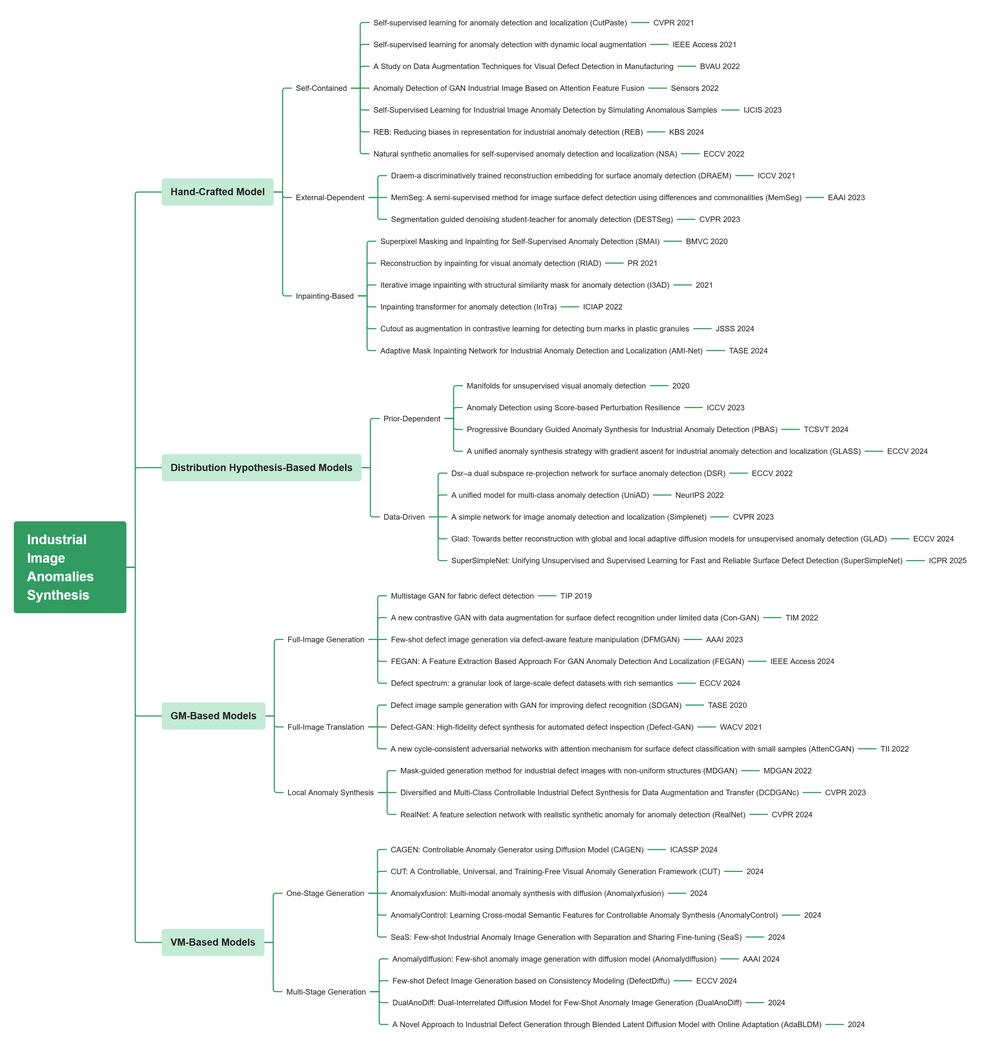
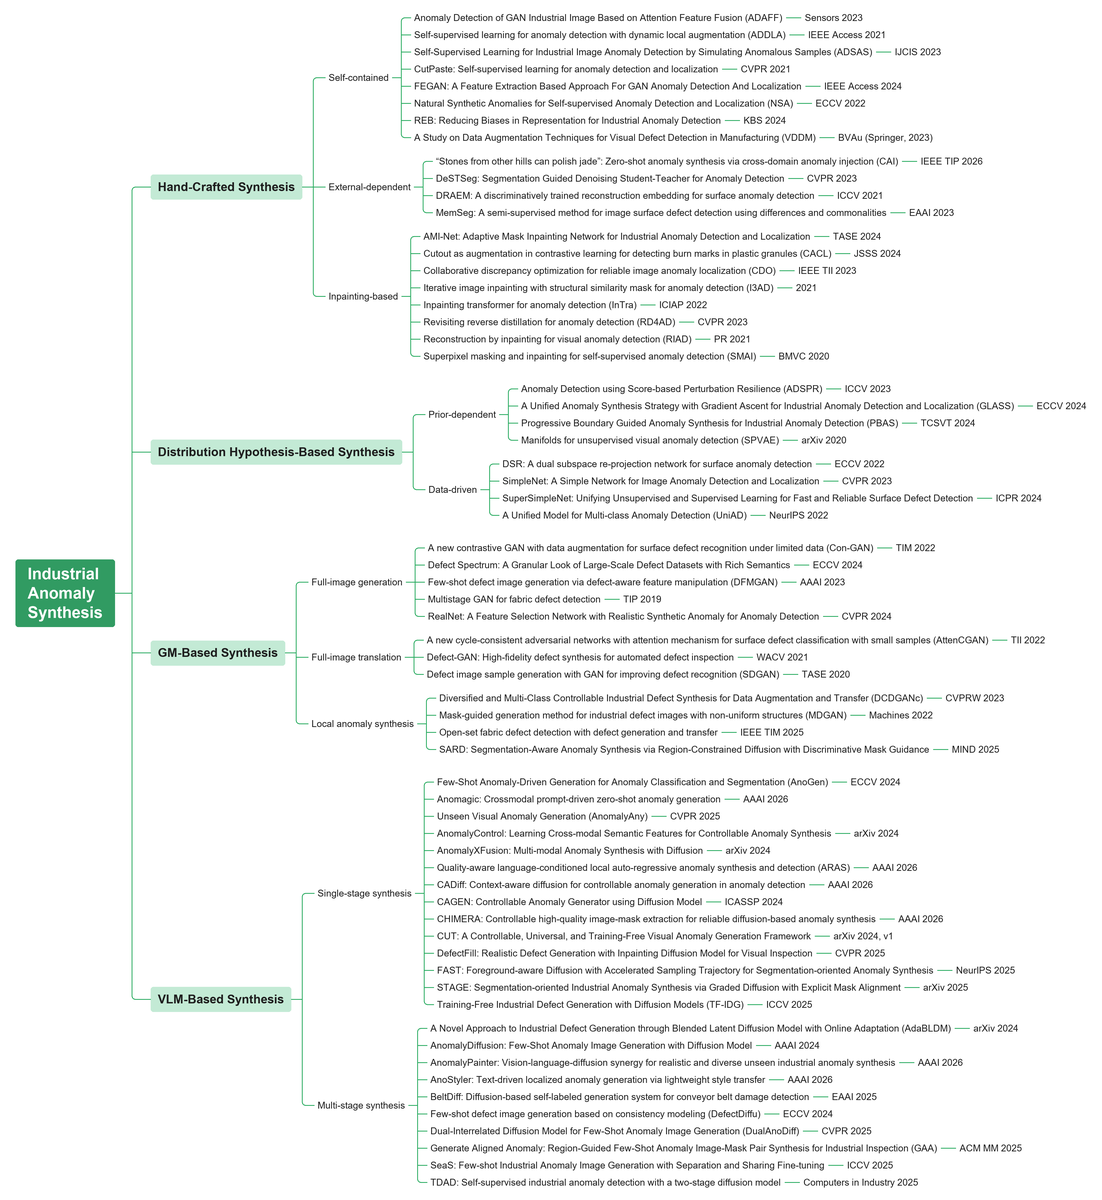
Update taxonomy and paper list to match the published TMLR version

diff --git a/README.md b/README.md
@@ -1,84 +1,167 @@
-# awesome-anomaly-synthesis
+<h1 align="center">Awesome Industrial Anomaly Synthesis</h1>
 
-We discuss anomaly synthesis methods in detail. Welcome to read our paper and make comments.
+<p align="center">
+  A collection of papers and code on synthesizing industrial defects for visual inspection.<br>
+  <em>Updated: 2026/11/24</em>
+</p>
 
-A Survey on Industrial Anomalies Synthesis [[paper]](https://arxiv.org/abs/2502.16412)
+<p align="center">
+  <strong><a href="https://openreview.net/forum?id=f9qjl5xCVW">A Survey on Industrial Anomaly Synthesis</a></strong><br>
+  Yanshu Wang, Xichen Xu, Jinbao Wang, Chengbin Ma, Xiaoning Lei, Guoyang Xie, Guannan Jiang, and Zhichao Lu.<br>
+  <em>Transactions on Machine Learning Research (TMLR), August 2026</em><br>
+  <a href="https://openreview.net/forum?id=f9qjl5xCVW">TMLR / OpenReview</a> · <a href="https://openreview.net/pdf?id=f9qjl5xCVW">PDF</a> · <a href="#citation">BibTeX</a>
+</p>
 
-🔥🔥🔥 Contributions to our repository are welcome. Feel free to categorize the papers.
+## Taxonomy
 
-## Taxonomy of Industrial Image Anomaly Synthesis
-![Taxonomy](https://github.com/M-3LAB/awesome-anomaly-synthesis/blob/main/paper_tree.png)
+[![Taxonomy adapted from Figure 3: industrial anomaly synthesis organized into four paradigms and ten subcategories. The method lists below provide a text version.](./paper_tree.png)](./paper_tree.png)
 
-## Hand-Crafted Model
-### Self-Contained
-+ Cutpaste: Self-supervised learning for anomaly detection and localization [[CVPR 2021]](http://arxiv.org/pdf/2104.04015)[[unofficial code]](https://github.com/Runinho/pytorch-cutpaste)
-+ Self-supervised learning for anomaly detection with dynamic local augmentation [[IEEE Access 2021]](https://ieeexplore.ieee.org/ielx7/6287639/6514899/09597511.pdf)
-+ A Study on Data Augmentation Techniques for Visual Defect Detection in Manufacturing [[BUAV 2021]](https://library.oapen.org/bitstream/handle/20.500.12657/62433/1/978-3-662-66769-9.pdf#page=80)
-+ Anomaly Detection of GAN Industrial Image Based on Attention Feature Fusion [[Sensors 2022]](https://www.mdpi.com/1424-8220/23/1/355)
-+ Self-Supervised Learning for Industrial Image Anomaly Detection by Simulating Anomalous Samples [[IJCIS 2023]](https://link.springer.com/article/10.1007/s44196-023-00328-0)
-+ REB: Reducing Biases in Representation for Industrial Anomaly Detection [[KBS 2023]](https://arxiv.org/abs/2308.12577)[[code]](https://github.com/ShuaiLYU/REB)
-+ Natural Synthetic Anomalies for Self-supervised Anomaly Detection and Localization (NSA) [[ECCV 2022]](https://arxiv.org/pdf/2109.15222.pdf)[[code]](https://github.com/hmsch/natural-synthetic-anomalies)
+| Paradigm | How anomalies are synthesized |
+| --- | --- |
+| [Hand-crafted](#1-hand-crafted-synthesis) | Apply explicit image-editing rules, such as copying a patch, blending an external texture, or masking and inpainting. |
+| [Distribution hypothesis-based](#2-distribution-hypothesis-based-synthesis) | Simulate departures from normal data, often in feature space rather than in pixels. |
+| [Generative model (GM)-based](#3-gm-based-synthesis) | Train or adapt a generator to industrial imagery to generate a whole image, translate one, or edit a local region. |
+| [Vision-language model (VLM)-based](#4-vlm-based-synthesis) | Adapt a pretrained multimodal model using prompts, reference images, or spatial conditions. |
 
+Methods are grouped by the mechanism that produces the anomaly. For example, the use of a diffusion backbone alone does not determine whether a method is GM-based or VLM-based.
 
-### External-Dependent
-+ Draem-a discriminatively trained reconstruction embedding for surface anomaly detection [[ICCV 2021]](http://arxiv.org/pdf/2108.07610)[[code]](https://github.com/vitjanz/draem)
-+ MemSeg: A semi-supervised method for image surface defect detection using differences and commonalities [[EAAI 2023]](https://arxiv.org/pdf/2205.00908.pdf)[[unofficial code]](https://github.com/TooTouch/MemSeg)
-+ DeSTSeg: Segmentation Guided Denoising Student-Teacher for Anomaly Detection [[CVPR 2023]](https://arxiv.org/abs/2211.11317)[[code]](https://github.com/apple/ml-destseg)
+We welcome missing papers and corrections to the taxonomy. [Open an issue](https://github.com/M-3LAB/awesome-anomaly-synthesis/issues).
 
-### Inpainting-Based
-+ Superpixel masking and inpainting for self-supervised anomaly detection (SMAI) [[BMVC 2020]](https://www.bmvc2020-conference.com/assets/papers/0275.pdf)
-+ Reconstruction by inpainting for visual anomaly detection (RIAD) [[PR 2021]](https://www.sciencedirect.com/science/article/pii/S0031320320305094/pdfft?md5=9bbe942017de1acd3a97034bc2d4a8fb&pid=1-s2.0-S0031320320305094-main.pdf)
-+ Iterative image inpainting with structural similarity mask for anomaly detection (I3AD) [[2021]](https://openreview.net/pdf?id=b4ach0lGuYO)
-+ Inpainting transformer for anomaly detection (InTra) [[ICIAP 2022]](https://arxiv.org/pdf/2104.13897.pdf)
-+ Cutout as augmentation in contrastive learning for detecting burn marks in plastic granules [[JSSS 2024]](https://jsss.copernicus.org/articles/13/63/2024/)
-+ AMI-Net: Adaptive Mask Inpainting Network for Industrial Anomaly Detection and Localization [[TASE 2024]](https://ieeexplore.ieee.org/abstract/document/10445116)
+## Table of Contents
 
-## Distribution Hypothesis-Based Models
-### Prior-Dependent
-+ Manifolds for unsupervised visual anomaly detection [[2020]](https://arxiv.org/abs/2006.11364)
-+ Anomaly Detection using Score-based Perturbation Resilience [[ICCV 2023]](https://openaccess.thecvf.com/content/ICCV2023/papers/Shin_Anomaly_Detection_using_Score-based_Perturbation_Resilience_ICCV_2023_paper.pdf)
-+ Progressive Boundary Guided Anomaly Synthesis for Industrial Anomaly Detection [[TCSVT 2024]](https://ieeexplore.ieee.org/document/10716437)[[code]](https://github.com/cqylunlun/PBAS)
-+ A Unified Anomaly Synthesis Strategy with Gradient Ascent for Industrial Anomaly Detection and Localization (GLASS) [[ECCV 2024]](https://arxiv.org/abs/2407.09359)[[code]](https://github.com/cqylunlun/GLASS)
+- [1. Hand-Crafted Synthesis](#1-hand-crafted-synthesis)
+  - [1.1 Self-contained](#11-self-contained)
+  - [1.2 External-dependent](#12-external-dependent)
+  - [1.3 Inpainting-based](#13-inpainting-based)
+- [2. Distribution Hypothesis-Based Synthesis](#2-distribution-hypothesis-based-synthesis)
+  - [2.1 Prior-dependent](#21-prior-dependent)
+  - [2.2 Data-driven](#22-data-driven)
+- [3. GM-Based Synthesis](#3-gm-based-synthesis)
+  - [3.1 Full-image generation](#31-full-image-generation)
+  - [3.2 Full-image translation](#32-full-image-translation)
+  - [3.3 Local anomaly synthesis](#33-local-anomaly-synthesis)
+- [4. VLM-Based Synthesis](#4-vlm-based-synthesis)
+  - [4.1 Single-stage synthesis](#41-single-stage-synthesis)
+  - [4.2 Multi-stage synthesis](#42-multi-stage-synthesis)
+- [Citation](#citation)
 
-### Data-Driven
-+ DSR: A dual subspace re-projection network for surface anomaly detection [[ECCV 2022]](https://arxiv.org/pdf/2208.01521.pdf)[[code]](https://github.com/VitjanZ/DSR_anomaly_detection)
-+ A Unified Model for Multi-class Anomaly Detection (UniAD) [[NeurIPS 2022]](https://arxiv.org/pdf/2206.03687.pdf) [[code]](https://github.com/zhiyuanyou/UniAD)
-+ SimpleNet: A Simple Network for Image Anomaly Detection and Localization [[CVPR 2023]](https://github.com/DonaldRR/SimpleNet)[[code]](https://github.com/DonaldRR/SimpleNet)
-+ GLAD: Towards Better Reconstruction with Global and Local Adaptive Diffusion Models for Unsupervised Anomaly Detection [[ECCV 2024]](https://arxiv.org/abs/2406.07487)[[code]](https://github.com/hyao1/GLAD)
-+ SuperSimpleNet: Unifying Unsupervised and Supervised Learning for Fast and Reliable Surface Defect Detection [[ICPR 2024]](https://arxiv.org/abs/2408.03143)[[code]](https://github.com/blaz-r/SuperSimpleNet/tree/main)
-+ GeneralAD: Anomaly Detection Across Domains by Attending to Distorted Features [[ECCV 2024]](https://arxiv.org/abs/2407.12427)[[code]](https://github.com/LucStrater/GeneralAD)
+## 1. Hand-Crafted Synthesis
 
+### 1.1 Self-contained
 
-## GM-Based Models
-### Full-Image Synthesis
-+ Multistage GAN for fabric defect detection [[TIP 2019]](https://pubmed.ncbi.nlm.nih.gov/31870985/)
-+ A new contrastive GAN with data augmentation for surface defect recognition under limited data (Con-GAN) [[TIM 2022]](https://ieeexplore.ieee.org/abstract/document/9999697/)
-+ Few-shot defect image generation via defect-aware feature manipulation (DFMGAN) [[AAAI 2023]](https://arxiv.org/abs/2303.02389)[[code]](https://github.com/Ldhlwh/DFMGAN)
-+ FEGAN: A Feature Extraction Based Approach For GAN Anomaly Detection And Localization (FEGAN) [[IEEE Access 2024]](https://ieeexplore.ieee.org/abstract/document/10540177/)
-+ Defect Spectrum: A Granular Look of Large-Scale Defect Datasets with Rich Semantics [[ECCV 2024]](https://openreview.net/forum?id=RLhS1TrjK3)[[data]](https://github.com/EnVision-Research/Defect_Spectrum)
++ **[2021]** Self-supervised learning for anomaly detection with dynamic local augmentation (ADDLA) [[IEEE Access]](https://doi.org/10.1109/ACCESS.2021.3124525)
++ **[2021]** CutPaste: Self-supervised learning for anomaly detection and localization [[CVPR 2021]](https://arxiv.org/abs/2104.04015) [[unofficial code]](https://github.com/Runinho/pytorch-cutpaste)
++ **[2022]** Natural Synthetic Anomalies for Self-supervised Anomaly Detection and Localization (NSA) [[ECCV 2022]](https://arxiv.org/abs/2109.15222) [[code]](https://github.com/hmsch/natural-synthetic-anomalies)
++ **[2023]** Anomaly Detection of GAN Industrial Image Based on Attention Feature Fusion (ADAFF) [[Sensors]](https://www.mdpi.com/1424-8220/23/1/355)
++ **[2023]** Self-Supervised Learning for Industrial Image Anomaly Detection by Simulating Anomalous Samples (ADSAS) [[IJCIS]](https://link.springer.com/article/10.1007/s44196-023-00328-0)
++ **[2023]** A Study on Data Augmentation Techniques for Visual Defect Detection in Manufacturing (VDDM) [[BVAu (Springer)]](https://doi.org/10.1007/978-3-662-66769-9_6)
++ **[2024]** FEGAN: A Feature Extraction Based Approach For GAN Anomaly Detection And Localization [[IEEE Access]](https://ieeexplore.ieee.org/abstract/document/10540177/)
++ **[2024]** REB: Reducing Biases in Representation for Industrial Anomaly Detection [[KBS]](https://arxiv.org/abs/2308.12577) [[code]](https://github.com/ShuaiLYU/REB)
 
-### Full-Image Translation
-+ Defect image sample generation with GAN for improving defect recognition [[TASE 2020]](https://ieeexplore.ieee.org/stamp/stamp.jsp?tp=&arnumber=9000806)
-+ Defect-GAN: High-fidelity defect synthesis for automated defect inspection [[WACV 2021]](https://dr.ntu.edu.sg/bitstream/10356/146285/2/WACV_2021_Defect_GAN__Camera_Ready_.pdf)
-+ A new cycle-consistent adversarial networks with attention mechanism for surface defect classification with small samples (AttenCGAN) [[TII 2022]](https://ieeexplore.ieee.org/abstract/document/9760037/)
+### 1.2 External-dependent
 
-### Local Anomaly Synthesis
-+ Mask-guided generation method for industrial defect images with non-uniform structures [[Machines 2022]](https://www.mdpi.com/2075-1702/10/12/1239)
-+ Diversified and Multi-Class Controllable Industrial Defect Synthesis for Data Augmentation and Transfer [[CVPRW 2023]](https://openaccess.thecvf.com/content/CVPR2023W/VISION/html/Wei_Diversified_and_Multi-Class_Controllable_Industrial_Defect_Synthesis_for_Data_Augmentation_CVPRW_2023_paper.html)
-+ RealNet: A Feature Selection Network with Realistic Synthetic Anomaly for Anomaly Detection [[CVPR 2024]](https://arxiv.org/abs/2403.05897)[[code]](https://github.com/cnulab/RealNet)
-+ Few-Shot Anomaly-Driven Generation for Anomaly Classification and Segmentation [[ECCV 2024]](https://csgaobb.github.io/Pub_files/ECCV2024_AnoGen_CR_0730_Mobile.pdf)[[code]](https://github.com/gaobb/AnoGen)
-+ Structured guided diffusion models for industrial defect image generation [[KBS 2025]](https://doi.org/10.1016/j.knosys.2025.114642)[[code]](https://github.com/xieyulai/Structured-DGM)
++ **[2021]** DRAEM: A discriminatively trained reconstruction embedding for surface anomaly detection [[ICCV 2021]](https://arxiv.org/abs/2108.07610) [[code]](https://github.com/vitjanz/draem)
++ **[2023]** DeSTSeg: Segmentation Guided Denoising Student-Teacher for Anomaly Detection [[CVPR 2023]](https://arxiv.org/abs/2211.11317) [[code]](https://github.com/apple/ml-destseg)
++ **[2023]** MemSeg: A semi-supervised method for image surface defect detection using differences and commonalities [[EAAI]](https://arxiv.org/abs/2205.00908) [[unofficial code]](https://github.com/TooTouch/MemSeg)
++ **[2026]** “Stones from other hills can polish jade”: Zero-shot anomaly synthesis via cross-domain anomaly injection (CAI) [[IEEE TIP]](https://doi.org/10.1109/TIP.2026.3675432)
 
-## Vison Language Models-Based
-### One-Stage Generation
-+ CAGEN: Controllable Anomaly Generator using Diffusion Model [[ICASSP 2024]](https://ieeexplore.ieee.org/document/10447663)
-+ Anomaly Anything: Promptable Unseen Visual Anomaly Generation [[CVPR 2025]](https://arxiv.org/abs/2406.01078)[[code]](https://github.com/EPFL-IMOS/AnomalyAny)
-+ AnomalyXFusion: Multi-modal Anomaly Synthesis with Diffusion [[2024]](https://arxiv.org/abs/2404.19444)[[code]](https://github.com/hujiecpp/MVTec-Caption)
-+ AnomalyControl: Learning Cross-modal Semantic Features for Controllable Anomaly Synthesis [[2024]](https://arxiv.org/abs/2412.06510)
-+ SeaS: Few-shot Industrial Anomaly Image Generation with Separation and Sharing Fine-tuning [[2024]](https://arxiv.org/abs/2410.14987)
+### 1.3 Inpainting-based
 
-### Multi-Stage Generation
-+ AnomalyDiffusion: Few-Shot Anomaly Image Generation with Diffusion Model [[AAAI 2024]](https://ojs.aaai.org/index.php/AAAI/article/view/28696)[[code]](https://github.com/sjtuplayer/anomalydiffusion)
-+ Few-shot defect image generation based on consistency modeling [[ECCV 2024]](https://link.springer.com/chapter/10.1007/978-3-031-73116-7_21)
-+ DualAnoDiff: Dual-Interrelated Diffusion Model for Few-Shot Anomaly Image Generation [[2024]](https://arxiv.org/abs/2408.13509)[[code]](https://github.com/yinyjin/DualAnoDiff)
-+ A Novel Approach to Industrial Defect Generation through Blended Latent Diffusion Model with Online Adaptation [[2024]](https://arxiv.org/abs/2402.19330)[[code]](https://github.com/GrandpaXun242/AdaBLDM)
++ **[2020]** Superpixel masking and inpainting for self-supervised anomaly detection (SMAI) [[BMVC 2020]](https://www.bmvc2020-conference.com/assets/papers/0275.pdf)
++ **[2021]** Iterative image inpainting with structural similarity mask for anomaly detection (I3AD) [[paper]](https://openreview.net/forum?id=b4ach0lGuYO)
++ **[2021]** Reconstruction by inpainting for visual anomaly detection (RIAD) [[PR]](https://www.sciencedirect.com/science/article/pii/S0031320320305094) [[unofficial code]](https://github.com/taikiinoue45/RIAD)
++ **[2022]** Inpainting transformer for anomaly detection (InTra) [[ICIAP 2022]](https://arxiv.org/abs/2104.13897) [[unofficial code]](https://github.com/jhy12/inpainting-transformer)
++ **[2023]** Collaborative discrepancy optimization for reliable image anomaly localization (CDO) [[IEEE TII]](https://arxiv.org/abs/2302.08769) [[code]](https://github.com/caoyunkang/CDO)
++ **[2023]** Revisiting reverse distillation for anomaly detection (RD4AD) [[CVPR 2023]](https://openaccess.thecvf.com/content/CVPR2023/html/Tien_Revisiting_Reverse_Distillation_for_Anomaly_Detection_CVPR_2023_paper.html) [[code]](https://github.com/tientrandinh/Revisiting-Reverse-Distillation)
++ **[2024]** AMI-Net: Adaptive Mask Inpainting Network for Industrial Anomaly Detection and Localization [[TASE]](https://ieeexplore.ieee.org/abstract/document/10445116) [[code]](https://github.com/luow23/AMI-Net)
++ **[2024]** Cutout as augmentation in contrastive learning for detecting burn marks in plastic granules (CACL) [[JSSS]](https://jsss.copernicus.org/articles/13/63/2024/)
+
+## 2. Distribution Hypothesis-Based Synthesis
+
+### 2.1 Prior-dependent
+
++ **[2020]** Manifolds for unsupervised visual anomaly detection (SPVAE) [[arXiv]](https://arxiv.org/abs/2006.11364)
++ **[2023]** Anomaly Detection using Score-based Perturbation Resilience (ADSPR) [[ICCV 2023]](https://openaccess.thecvf.com/content/ICCV2023/papers/Shin_Anomaly_Detection_using_Score-based_Perturbation_Resilience_ICCV_2023_paper.pdf) [[code]](https://github.com/Lee-JongHyeon/Anomaly-Detection-using-Score-based-Perturbation-Resilience)
++ **[2024]** A Unified Anomaly Synthesis Strategy with Gradient Ascent for Industrial Anomaly Detection and Localization (GLASS) [[ECCV 2024]](https://arxiv.org/abs/2407.09359) [[code]](https://github.com/cqylunlun/GLASS)
++ **[2024]** Progressive Boundary Guided Anomaly Synthesis for Industrial Anomaly Detection (PBAS) [[TCSVT]](https://ieeexplore.ieee.org/document/10716437) [[code]](https://github.com/cqylunlun/PBAS)
+
+### 2.2 Data-driven
+
++ **[2022]** DSR: A dual subspace re-projection network for surface anomaly detection [[ECCV 2022]](https://arxiv.org/abs/2208.01521) [[code]](https://github.com/VitjanZ/DSR_anomaly_detection)
++ **[2022]** A Unified Model for Multi-class Anomaly Detection (UniAD) [[NeurIPS 2022]](https://arxiv.org/abs/2206.03687) [[code]](https://github.com/zhiyuanyou/UniAD)
++ **[2023]** SimpleNet: A Simple Network for Image Anomaly Detection and Localization [[CVPR 2023]](https://arxiv.org/abs/2303.15140) [[code]](https://github.com/DonaldRR/SimpleNet)
++ **[2024]** SuperSimpleNet: Unifying Unsupervised and Supervised Learning for Fast and Reliable Surface Defect Detection [[ICPR 2024]](https://arxiv.org/abs/2408.03143) [[code]](https://github.com/blaz-r/SuperSimpleNet/tree/main)
++ **[2024]** GLAD: Towards Better Reconstruction with Global and Local Adaptive Diffusion Models for Unsupervised Anomaly Detection [[ECCV 2024]](https://arxiv.org/abs/2406.07487) [[code]](https://github.com/hyao1/GLAD)
++ **[2024]** GeneralAD: Anomaly Detection Across Domains by Attending to Distorted Features [[ECCV 2024]](https://arxiv.org/abs/2407.12427) [[code]](https://github.com/LucStrater/GeneralAD)
+
+## 3. GM-Based Synthesis
+
+### 3.1 Full-image generation
+
++ **[2019]** Multistage GAN for fabric defect detection [[TIP]](https://pubmed.ncbi.nlm.nih.gov/31870985/)
++ **[2022]** A new contrastive GAN with data augmentation for surface defect recognition under limited data (Con-GAN) [[TIM]](https://ieeexplore.ieee.org/abstract/document/9999697/)
++ **[2023]** Few-shot defect image generation via defect-aware feature manipulation (DFMGAN) [[AAAI 2023]](https://arxiv.org/abs/2303.02389) [[code]](https://github.com/Ldhlwh/DFMGAN)
++ **[2024]** Defect Spectrum: A Granular Look of Large-Scale Defect Datasets with Rich Semantics [[ECCV 2024]](https://openreview.net/forum?id=RLhS1TrjK3) [[code]](https://github.com/EnVision-Research/Defect_Spectrum) [[data / project]](https://github.com/EnVision-Research/Defect_Spectrum#readme)
++ **[2024]** RealNet: A Feature Selection Network with Realistic Synthetic Anomaly for Anomaly Detection [[CVPR 2024]](https://arxiv.org/abs/2403.05897) [[code]](https://github.com/cnulab/RealNet)
+
+### 3.2 Full-image translation
+
++ **[2020]** Defect image sample generation with GAN for improving defect recognition (SDGAN) [[TASE]](https://ieeexplore.ieee.org/stamp/stamp.jsp?tp=&arnumber=9000806)
++ **[2021]** Defect-GAN: High-fidelity defect synthesis for automated defect inspection [[WACV 2021]](https://openaccess.thecvf.com/content/WACV2021/papers/Zhang_Defect-GAN_High-Fidelity_Defect_Synthesis_for_Automated_Defect_Inspection_WACV_2021_paper.pdf) [[unofficial code]](https://github.com/TimZhang001/Defect_GAN-PyTorch)
++ **[2022]** A new cycle-consistent adversarial networks with attention mechanism for surface defect classification with small samples (AttenCGAN) [[TII]](https://ieeexplore.ieee.org/abstract/document/9760037/)
+
+### 3.3 Local anomaly synthesis
+
++ **[2022]** Mask-guided generation method for industrial defect images with non-uniform structures (MDGAN) [[Machines]](https://www.mdpi.com/2075-1702/10/12/1239) [[unofficial code]](https://github.com/hits-gold/MDGAN-pytorch)
++ **[2023]** Diversified and Multi-Class Controllable Industrial Defect Synthesis for Data Augmentation and Transfer (DCDGANc) [[CVPRW 2023]](https://openaccess.thecvf.com/content/CVPR2023W/VISION/html/Wei_Diversified_and_Multi-Class_Controllable_Industrial_Defect_Synthesis_for_Data_Augmentation_CVPRW_2023_paper.html)
++ **[2025]** Open-set fabric defect detection with defect generation and transfer [[IEEE TIM]](https://doi.org/10.1109/TIM.2025.3547485)
++ **[2025]** SARD: Segmentation-Aware Anomaly Synthesis via Region-Constrained Diffusion with Discriminative Mask Guidance [[MIND 2025]](https://doi.org/10.1109/MIND67540.2025.11351901)
++ **[2025]** Structured guided diffusion models for industrial defect image generation (Structured-GDM) [[KBS]](https://doi.org/10.1016/j.knosys.2025.114642) [[code]](https://github.com/xieyulai/Structured-DGM) (inference demo only)
+
+## 4. VLM-Based Synthesis
+
+### 4.1 Single-stage synthesis
+
++ **[2024]** Few-Shot Anomaly-Driven Generation for Anomaly Classification and Segmentation (AnoGen) [[ECCV 2024]](https://csgaobb.github.io/Pub_files/ECCV2024_AnoGen_CR_0730_Mobile.pdf) [[code]](https://github.com/gaobb/AnoGen)
++ **[2024]** AnomalyControl: Learning Cross-modal Semantic Features for Controllable Anomaly Synthesis [[arXiv]](https://arxiv.org/abs/2412.06510) [[code]](https://github.com/DaniellaHe/AnomalyControl)
++ **[2024]** AnomalyXFusion: Multi-modal Anomaly Synthesis with Diffusion [[arXiv]](https://arxiv.org/abs/2404.19444) [[code]](https://github.com/hujiecpp/MVTec-Caption) (model components and dataset tools)
++ **[2024]** CAGEN: Controllable Anomaly Generator using Diffusion Model [[ICASSP 2024]](https://ieeexplore.ieee.org/document/10447663)
++ **[2024]** CUT: A Controllable, Universal, and Training-Free Visual Anomaly Generation Framework [[arXiv v1]](https://arxiv.org/abs/2406.01078v1)
++ **[2025]** Unseen Visual Anomaly Generation (AnomalyAny) [[CVPR 2025]](https://openaccess.thecvf.com/content/CVPR2025/papers/Sun_Unseen_Visual_Anomaly_Generation_CVPR_2025_paper.pdf) [[code]](https://github.com/EPFL-IMOS/AnomalyAny)
++ **[2025]** DefectFill: Realistic Defect Generation with Inpainting Diffusion Model for Visual Inspection [[CVPR 2025]](https://openaccess.thecvf.com/content/CVPR2025/html/Song_DefectFill_Realistic_Defect_Generation_with_Inpainting_Diffusion_Model_for_Visual_CVPR_2025_paper.html) [[unofficial code]](https://github.com/axelsig1/DefectFill)
++ **[2025]** FAST: Foreground-aware Diffusion with Accelerated Sampling Trajectory for Segmentation-oriented Anomaly Synthesis [[NeurIPS 2025]](https://openreview.net/forum?id=qqEfm8tlCM) [[code]](https://github.com/Chhro123/fast-foreground-aware-anomaly-synthesis)
++ **[2025]** STAGE: Segmentation-oriented Industrial Anomaly Synthesis via Graded Diffusion with Explicit Mask Alignment [[arXiv]](https://arxiv.org/abs/2509.06693) [[code]](https://github.com/Chhro123/STAGE)
++ **[2025]** Training-Free Industrial Defect Generation with Diffusion Models (TF-IDG) [[ICCV 2025]](https://openaccess.thecvf.com/content/ICCV2025/html/Xu_Training-Free_Industrial_Defect_Generation_with_Diffusion_Models_ICCV_2025_paper.html) [[code]](https://github.com/rubymiaomiao/TF-IDG)
++ **[2026]** Anomagic: Crossmodal prompt-driven zero-shot anomaly generation [[AAAI 2026]](https://ojs.aaai.org/index.php/AAAI/article/view/37466) [[code]](https://github.com/yuxin-jiang/Anomagic)
++ **[2026]** Quality-aware language-conditioned local auto-regressive anomaly synthesis and detection (ARAS) [[AAAI 2026]](https://ojs.aaai.org/index.php/AAAI/article/view/38592) [[code]](https://github.com/CASIA-LMC-Lab/QARAD)
++ **[2026]** CADiff: Context-aware diffusion for controllable anomaly generation in anomaly detection [[AAAI 2026]](https://ojs.aaai.org/index.php/AAAI/article/view/37917)
++ **[2026]** CHIMERA: Controllable high-quality image-mask extraction for reliable diffusion-based anomaly synthesis [[AAAI 2026]](https://ojs.aaai.org/index.php/AAAI/article/view/37511)
+
+CUT links to the original preprint (v1); AnomalyAny links to the later CVPR paper. The survey lists both labels.
+
+### 4.2 Multi-stage synthesis
+
++ **[2024]** A Novel Approach to Industrial Defect Generation through Blended Latent Diffusion Model with Online Adaptation (AdaBLDM) [[arXiv]](https://arxiv.org/abs/2402.19330) [[code]](https://github.com/GrandpaXun242/AdaBLDM)
++ **[2024]** AnomalyDiffusion: Few-Shot Anomaly Image Generation with Diffusion Model [[AAAI 2024]](https://ojs.aaai.org/index.php/AAAI/article/view/28696) [[code]](https://github.com/sjtuplayer/anomalydiffusion)
++ **[2024]** Few-shot defect image generation based on consistency modeling (DefectDiffu) [[ECCV 2024]](https://link.springer.com/chapter/10.1007/978-3-031-73116-7_21) [[code]](https://github.com/FFDD-diffusion/DefectDiffu)
++ **[2025]** BeltDiff: Diffusion-based self-labeled generation system for conveyor belt damage detection [[EAAI]](https://www.sciencedirect.com/science/article/pii/S095219762502295X)
++ **[2025]** Dual-Interrelated Diffusion Model for Few-Shot Anomaly Image Generation (DualAnoDiff) [[CVPR 2025]](https://arxiv.org/abs/2408.13509) [[code]](https://github.com/yinyjin/DualAnoDiff)
++ **[2025]** Generate Aligned Anomaly: Region-Guided Few-Shot Anomaly Image-Mask Pair Synthesis for Industrial Inspection (GAA) [[ACM MM 2025]](https://arxiv.org/abs/2507.09619)
++ **[2025]** SeaS: Few-shot Industrial Anomaly Image Generation with Separation and Sharing Fine-tuning [[ICCV 2025]](https://arxiv.org/abs/2410.14987) [[code]](https://github.com/HUST-SLOW/SeaS)
++ **[2025]** TDAD: Self-supervised industrial anomaly detection with a two-stage diffusion model [[Computers in Industry]](https://www.sciencedirect.com/science/article/pii/S0166361524001209)
++ **[2026]** AnomalyPainter: Vision-language-diffusion synergy for realistic and diverse unseen industrial anomaly synthesis [[AAAI 2026]](https://ojs.aaai.org/index.php/AAAI/article/view/37501)
++ **[2026]** AnoStyler: Text-driven localized anomaly generation via lightweight style transfer [[AAAI 2026]](https://ojs.aaai.org/index.php/AAAI/article/view/38604) [[code]](https://github.com/yulimso/AnoStyler)
+
+## Citation
+
+If you find this survey useful in your research, please consider citing it:
+
+```bibtex
+@article{wang2026industrialanomalysynthesis,
+  title   = {A Survey on Industrial Anomaly Synthesis},
+  author  = {Wang, Yanshu and Xu, Xichen and Wang, Jinbao and Ma, Chengbin and Lei, Xiaoning and Xie, Guoyang and Jiang, Guannan and Lu, Zhichao},
+  journal = {Transactions on Machine Learning Research},
+  year    = {2026},
+  url     = {https://openreview.net/forum?id=f9qjl5xCVW}
+}
+```
